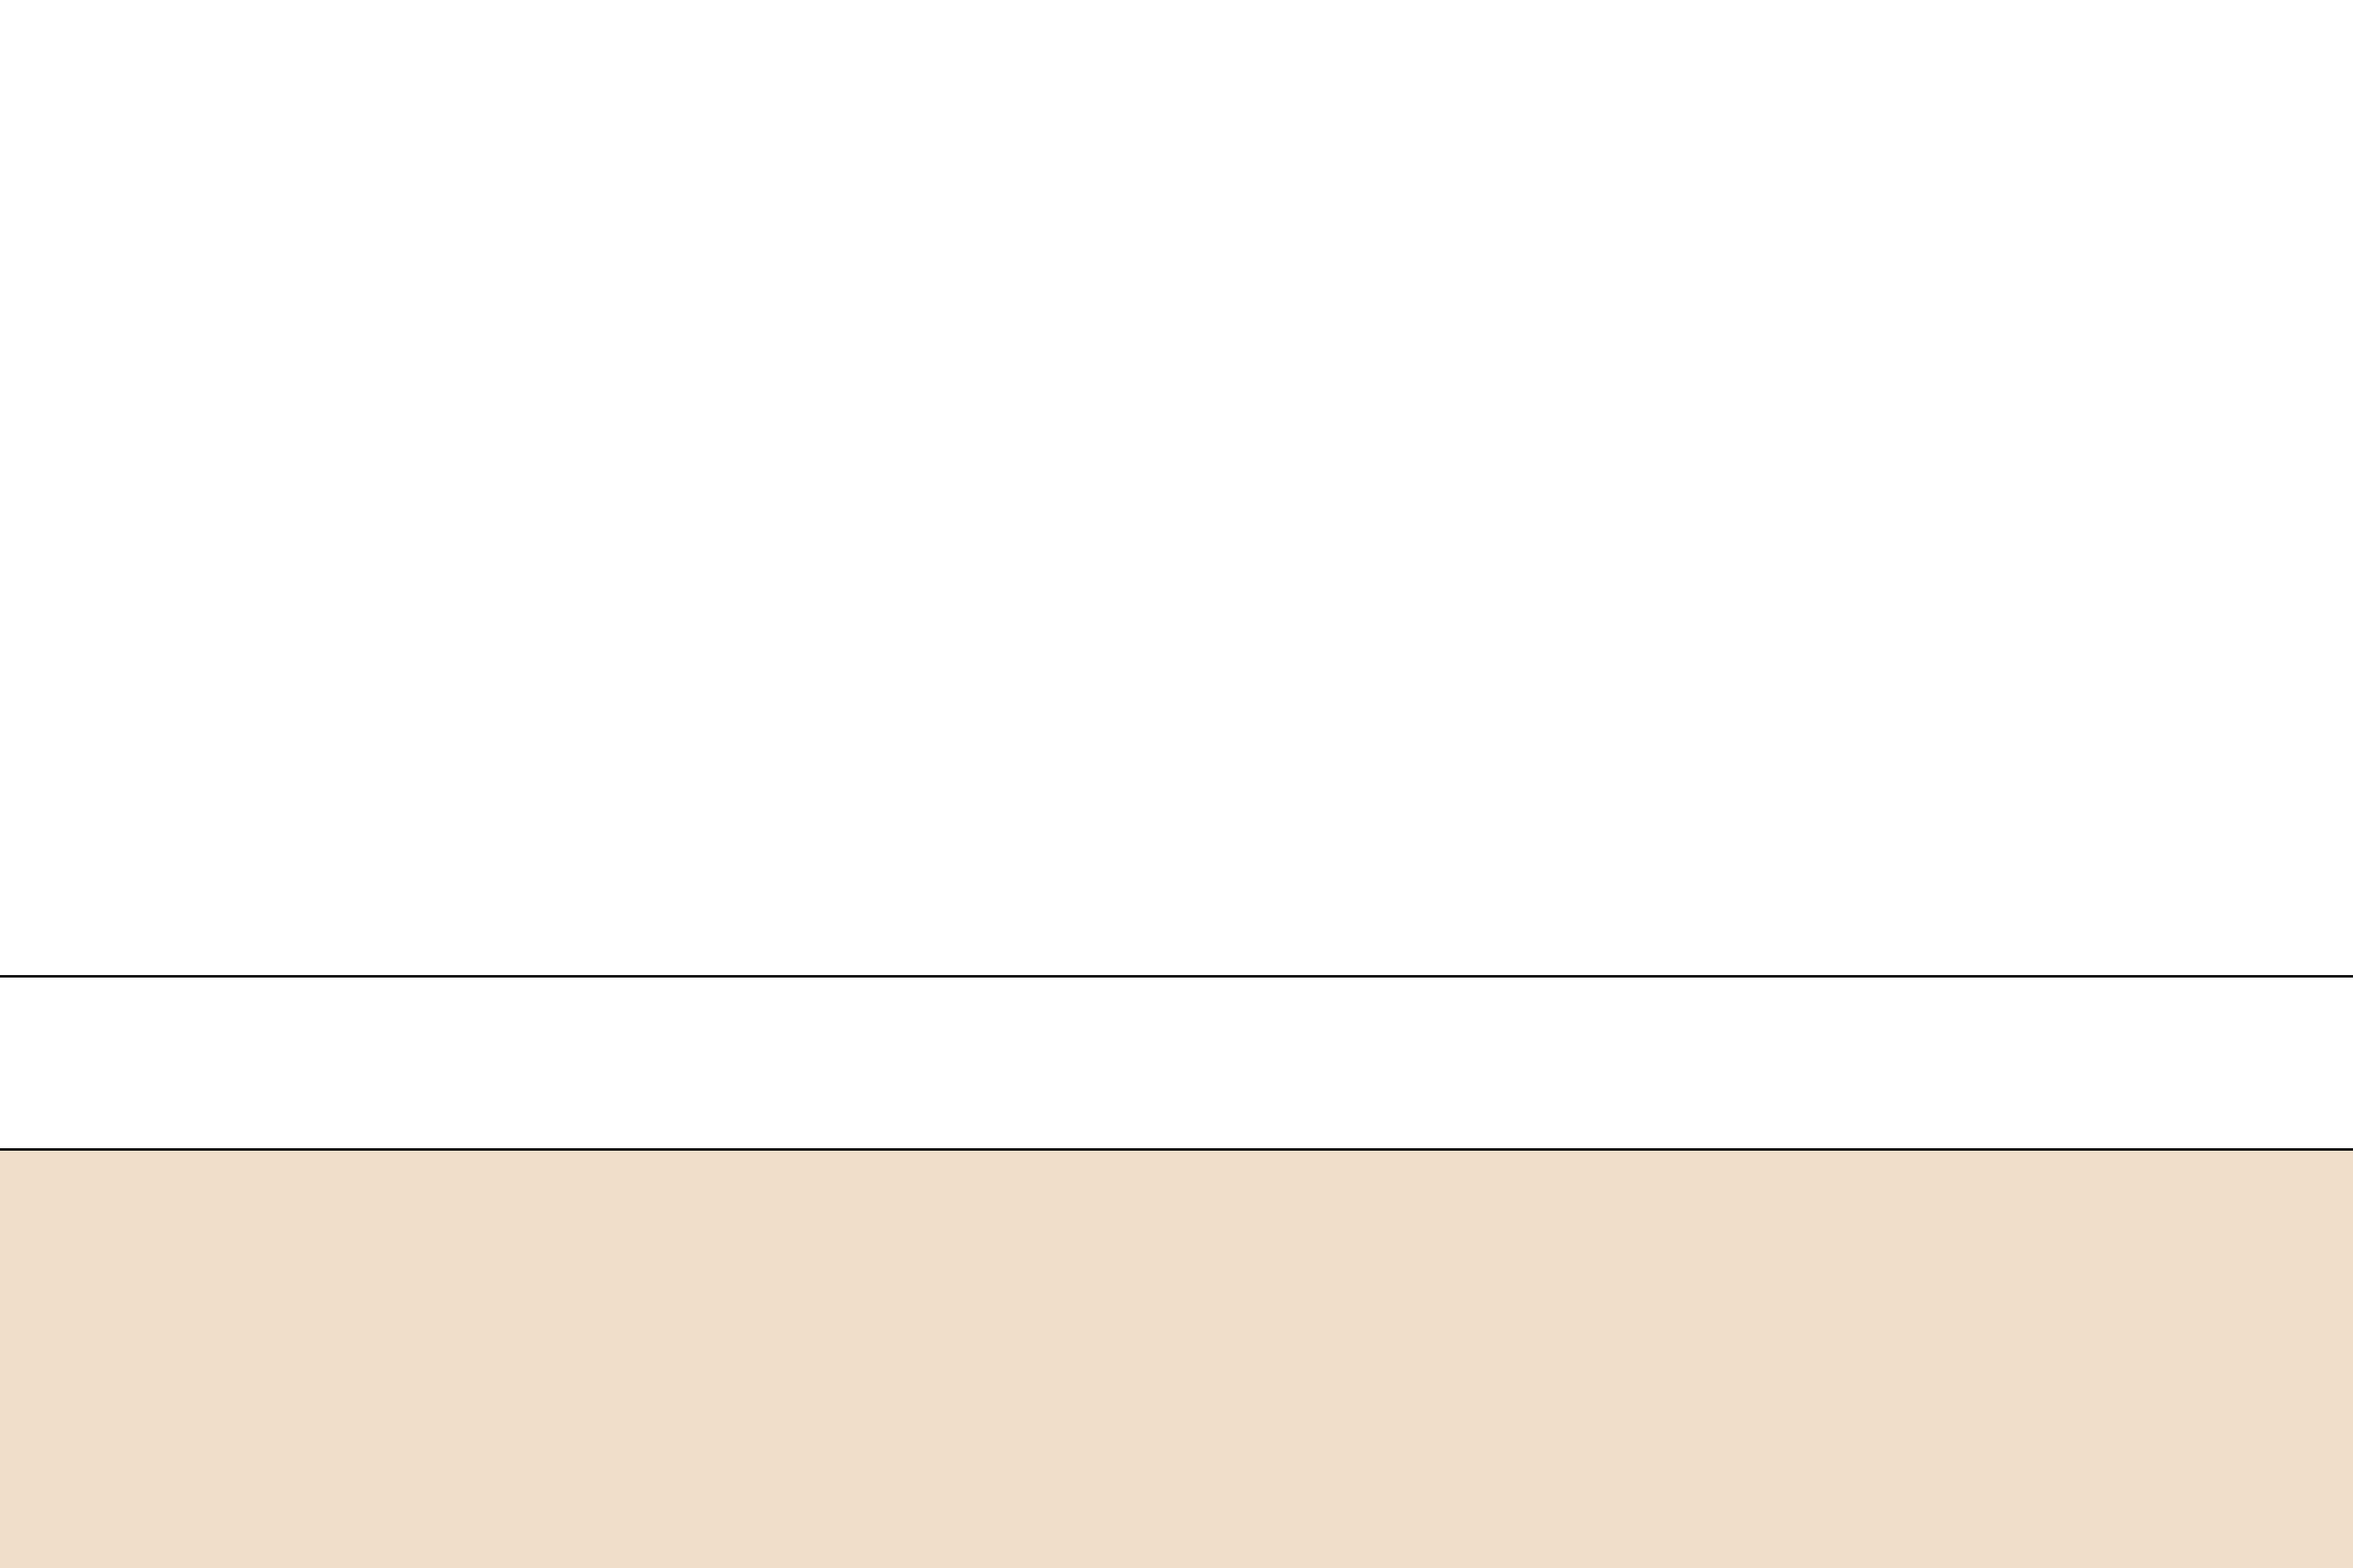
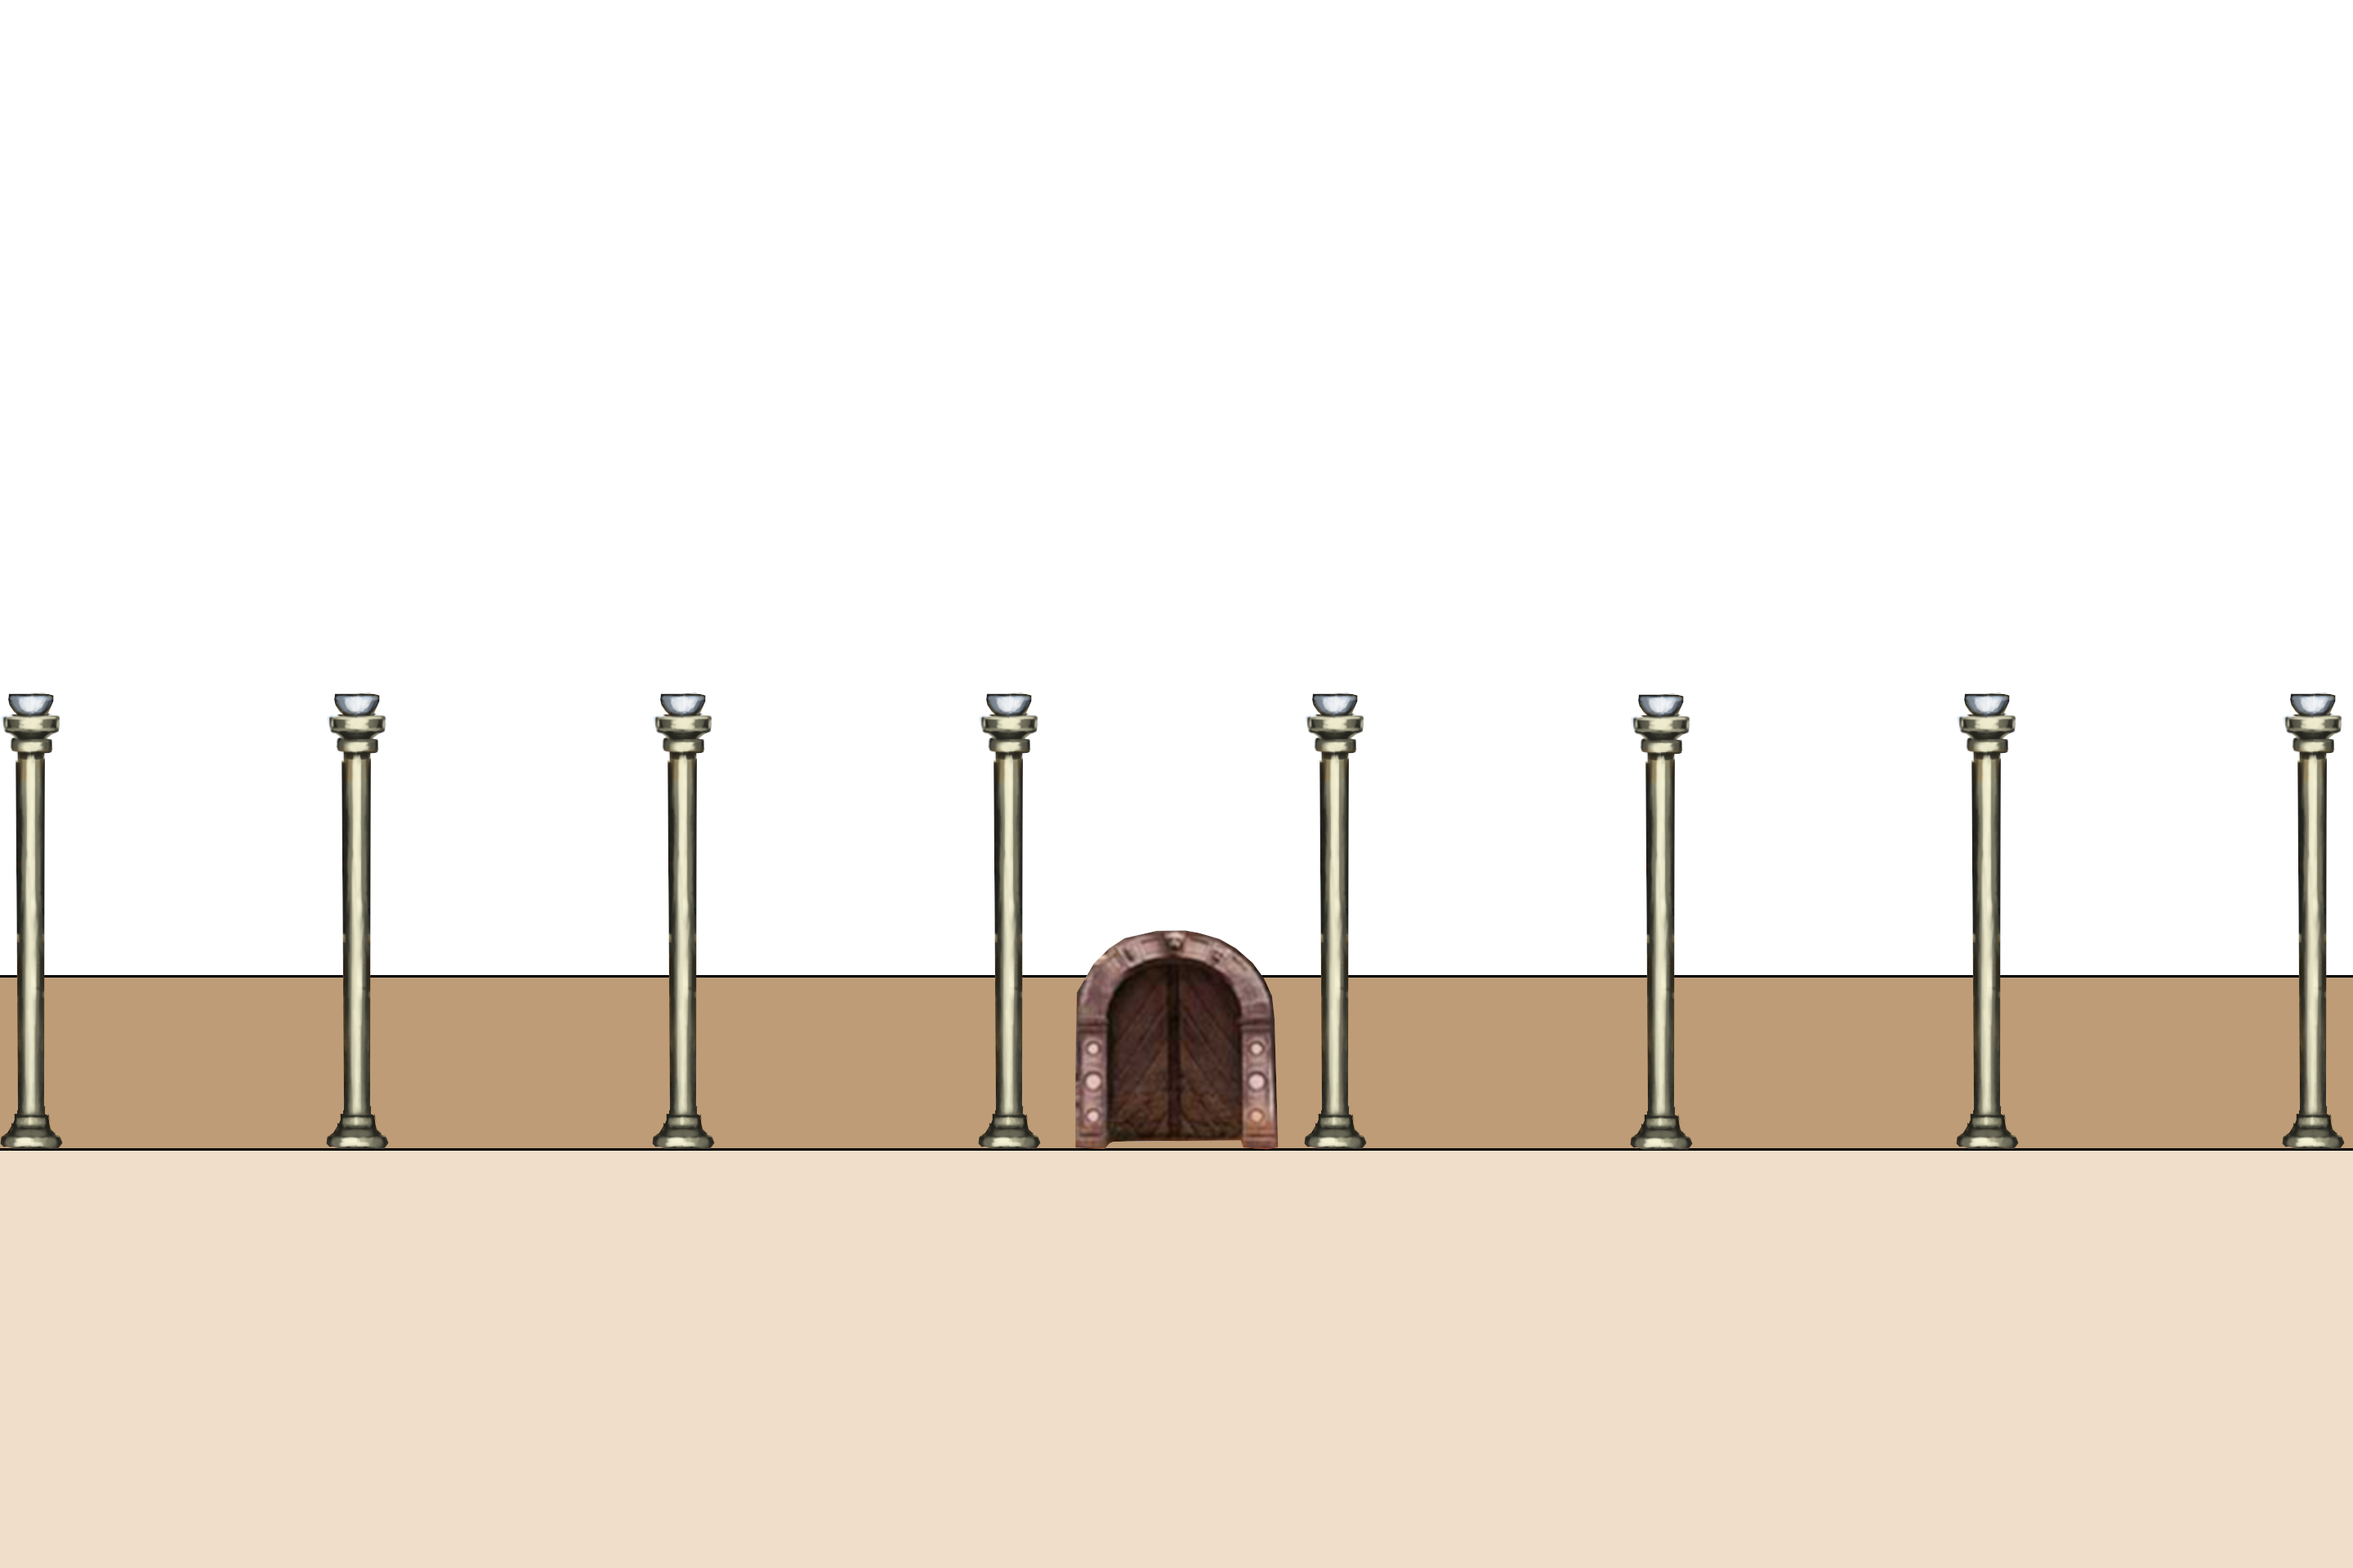
NEW ARENA NEW CAMERA 30.06.2023

Changed region(s): [[0.0, 0.4375, 1.0, 0.75]]

diff --git a/src/game/GamePanel.java b/src/game/GamePanel.java
@@ -37,6 +37,10 @@ public class GamePanel extends JPanel implements Runnable{
     private static final double MIN_ZOOM_LEVEL_2 = 0.52;
     private double zoomLevel = 1.0;
 
+    private double targetZoomLevel = 1.0;
+    private Timer zoomTimer;
+    private final int ZOOM_DELAY_MS = 10;
+
     public boolean hittingBorder1_player;
     public boolean hittingBorder2_player;
     public boolean hittingBorder1_enemy;
@@ -304,9 +308,7 @@ public class GamePanel extends JPanel implements Runnable{
                 translationY = (int) ((getHeight() - (arenaScreenHeight-200 * zoomLevel)));
             }
 
-            // Apply the translation
             g2.translate(translationX, translationY);
-
             g2.scale(zoomLevel, zoomLevel);
 
             battleArea.draw(g2);
@@ -366,45 +368,46 @@ public class GamePanel extends JPanel implements Runnable{
     }
 
     public void zoomOutOnHittingScreenBorder(){
-        if (player.torso.x <= 700 || player.torso.x >= screenWidth + 630 /*|| player.torso.y < 0 || player.torso.y >= screenHeight*/) {
-            if (zoomLevel > MIN_ZOOM_LEVEL_1) {
-                zoomLevel *= ZOOM_FACTOR; // Adjust the zoom level
-                hittingBorder1_player = true;
+        if (getDistance(player.torso.x,player.torso.y,currentEnemy.torso.x,currentEnemy.torso.y) > 500){
+            if (player.torso.x <= 700 || player.torso.x >= screenWidth + 630/*|| player.torso.y < 0 || player.torso.y >= screenHeight*/) {
+                if (zoomLevel > MIN_ZOOM_LEVEL_1) {
+                    zoomLevel *= ZOOM_FACTOR; // Adjust the zoom level
+                    hittingBorder1_player = true;
+                }
+                else{
+                    hittingBorder1_player = false;
+                }
             }
-            else{
-                hittingBorder1_player = false;
+            if (player.torso.x <= 350 || player.torso.x >= screenWidth + 1000/*|| player.torso.y < 0 || player.torso.y >= screenHeight*/) {
+                if (zoomLevel > MIN_ZOOM_LEVEL_2) {
+                    zoomLevel *= ZOOM_FACTOR; // Adjust the zoom level
+                    hittingBorder2_player = true;
+                }
+                else{
+                    hittingBorder2_player = false;
+                }
             }
-        }
-        if (player.torso.x <= 350 || player.torso.x >= screenWidth + 1000/*|| player.torso.y < 0 || player.torso.y >= screenHeight*/) {
-            if (zoomLevel > MIN_ZOOM_LEVEL_2) {
-                zoomLevel *= ZOOM_FACTOR; // Adjust the zoom level
-                hittingBorder2_player = true;
-            }
-            else{
-                hittingBorder2_player = false;
-            }
-        }
 
-        if (currentEnemy.torso.x <= 700 || currentEnemy.torso.x >= screenWidth + 630 /*|| currentEnemy.torso.y < 0 || currentEnemy.torso.y >= screenHeight*/) {
-            if (zoomLevel > MIN_ZOOM_LEVEL_1) {
-                zoomLevel *= ZOOM_FACTOR; // Adjust the zoom level
-                hittingBorder1_enemy = true;
+            if (currentEnemy.torso.x <= 700 || currentEnemy.torso.x >= screenWidth + 630/*|| currentEnemy.torso.y < 0 || currentEnemy.torso.y >= screenHeight*/) {
+                if (zoomLevel > MIN_ZOOM_LEVEL_1) {
+                    zoomLevel *= ZOOM_FACTOR; // Adjust the zoom level
+                    hittingBorder1_enemy = true;
+                }
+                else{
+                    hittingBorder1_enemy = false;
+                }
             }
-            else{
-                hittingBorder1_enemy = false;
+            if (currentEnemy.torso.x <= 350 || player.torso.x >= screenWidth + 1000/*|| player.torso.y < 0 || player.torso.y >= screenHeight*/) {
+                if (zoomLevel > MIN_ZOOM_LEVEL_2) {
+                    zoomLevel *= ZOOM_FACTOR; // Adjust the zoom level
+                    hittingBorder2_enemy = true;
+                }
+                else{
+                    hittingBorder2_enemy = false;
+                }
             }
         }
-        if (currentEnemy.torso.x <= 350 || player.torso.x >= screenWidth + 1000/*|| player.torso.y < 0 || player.torso.y >= screenHeight*/) {
-            if (zoomLevel > MIN_ZOOM_LEVEL_2) {
-                zoomLevel *= ZOOM_FACTOR; // Adjust the zoom level
-                hittingBorder2_enemy = true;
-            }
-            else{
-                hittingBorder2_enemy = false;
-            }
-        }
-
-        if (getDistance(player.torso.x,player.torso.y,currentEnemy.torso.x,currentEnemy.torso.y) <= 400){
+        else if (getDistance(player.torso.x,player.torso.y,currentEnemy.torso.x,currentEnemy.torso.y) <= 500){
             if (!hittingBorder1_player){
                 zoomLevel = 1.0;
                 zoomedInOnPlayer = true;

diff --git a/src/entity/Player.java b/src/entity/Player.java
@@ -334,7 +334,7 @@ public class Player extends Entity{
             fixPosWhenCollide(gp.currentEnemy);
 
             hitbox.x = (int) (torso.x+gp.tileSize*16);
-            hitbox.y = gp.tileSize*96;
+            hitbox.y = gp.tileSize*225;
 
             /*if (willCollideEnemy(gp.currentEnemy)){
                 canMoveForward = false;

diff --git a/src/entity/Enemy.java b/src/entity/Enemy.java
@@ -353,7 +353,7 @@ public class Enemy extends Entity{
         fixPosWhenCollide(gp.player);
 
         hitbox.x = (int) (torso.x-gp.tileSize*18);
-        hitbox.y = gp.tileSize*96;
+        hitbox.y = gp.tileSize*225;
 
         if (gp.turn.equals("enemy")){
 
